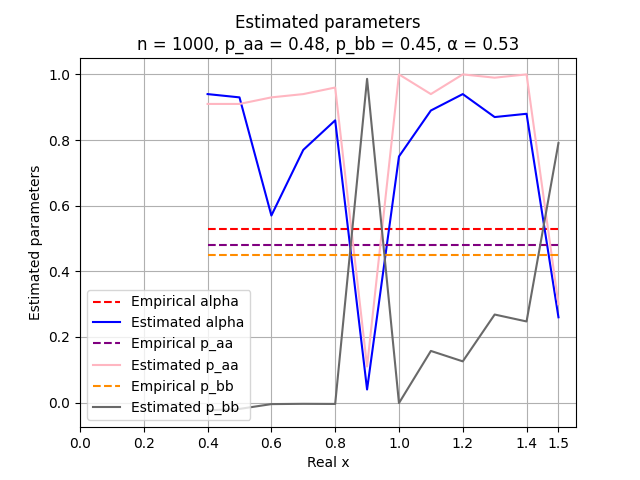
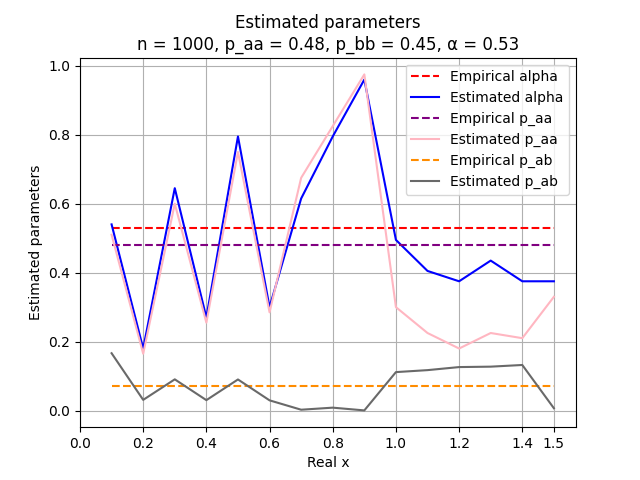
update algorithm 0 for finding parameters; estimate true evolutionary distance for real genomes

diff --git a/3d_fragile_breakage_model/src/real_breakpoint_graph.py b/3d_fragile_breakage_model/src/real_breakpoint_graph.py
@@ -10,6 +10,9 @@ from src.graphs.real_data_graph import (
     sp_blocks_from_df,
     uniq_predicate,
 )
+from src.true_evolutionary_distance import find_true_evolution_dist_and_find_parameters1, \
+    find_true_evolution_dist_and_find_parameters0
+from src.utils import CyclesInfo
 
 
 def read_compartments(file):
@@ -50,23 +53,38 @@ def read_compartments(file):
     return a_b_compartments
 
 
+def read_files_path():
+    print("Enter a path to a file that contains A and B compartments:")
+    compartments_file = input()
+
+    print("Enter a path to a file with orthology blocks:")
+    blocks_file = input()
+
+    return compartments_file, blocks_file
+
+
 def read_species(orthology_blocks):
     species = orthology_blocks.species.unique()
     # print("Choose two species from the list:")
-    print("Choose one species from the list to compare with homo_sapiens:")
+    # must match the one for which the blocking was introduced
+    print("Choose two species from the list to compare with homo_sapiens)")
     print(*species, sep=", ")
 
-    # species1, species2 = input().split()
-    species1 = input()
-    species2 = "homo_sapiens"
+    print(
+        "Format: species1, species2\n",
+        "The second species must coincide with the one for which the partitioning into A/B compartments was",
+        " introduced:",
+    )
+
+    species1, species2 = input().split()
 
     if species1 not in species:
         print("First species is not from the list")
         exit()
 
-    # if species2 not in species:
-    #     print("Second species is not from the list")
-    #     exit()
+    if species2 not in species:
+        print("Second species is not from the list")
+        exit()
     return species1, species2
 
 
@@ -152,20 +170,20 @@ def add_types_to_fragile_edges(edges, a_b_compartments):
         if a_compartments + b_compartments > 1e6:
             cnt_edge_contains_multi_compartments += 1
 
-    print("edge inside", cnt_edge_inside_compartment)
-    print("edge contains", cnt_edge_contains_multi_compartments)
-    print("A and B", a_and_b)
+    # print("edge inside", cnt_edge_inside_compartment)
+    # print("edge contains", cnt_edge_contains_multi_compartments)
+    # print("A and B", a_and_b)
+    #
+    # cnt_a = defaultdict(lambda: 0)
+    # cnt_b = defaultdict(lambda: 0)
+    # for edge in edges:
+    #     if edge["label"] == "A":
+    #         cnt_a[edge["chr"]] += 1
+    #     else:
+    #         cnt_b[edge["chr"]] += 1
 
-    cnt_a = defaultdict(lambda: 0)
-    cnt_b = defaultdict(lambda: 0)
-    for edge in edges:
-        if edge["label"] == "A":
-            cnt_a[edge["chr"]] += 1
-        else:
-            cnt_b[edge["chr"]] += 1
-
-    for chr_ in cnt_a.keys():
-        print(chr_, cnt_a[chr_], cnt_b[chr_])
+    # for chr_ in cnt_a.keys():
+    #     print(chr_, cnt_a[chr_], cnt_b[chr_])
 
 
 def len_of_blocks(orthology_blocks, species):
@@ -176,10 +194,7 @@ def len_of_blocks(orthology_blocks, species):
     # print("Length of orthology blocks for", species, ":", len_blocks, "\n")
 
 
-def get_compartments_and_orthology_blocks():
-    compartments_file = "3d_fragile_breakage_model/data/a_b_compartments.xlsx"
-    blocks_file = "3d_fragile_breakage_model/data/orthology_blocks.txt"
-
+def get_compartments_and_orthology_blocks(compartments_file, blocks_file):
     a_b_compartments = read_compartments(compartments_file)
     orthology_blocks = parse_to_df(blocks_file)
     return a_b_compartments, orthology_blocks
@@ -230,9 +245,8 @@ def get_graph_statistic(g):
         cycle = g.subgraph(component)
         if len(cycle.nodes) == len(cycle.edges):
             cycle_len = len(cycle.edges) // 2
-            statistic["cycles"][cycle_len] += 1
+            statistic["cycles"][str(cycle_len)] += 1
             edges_types = list(map(lambda edge: edge[2], cycle.edges(data="label")))
-            # if cycle_len < max_cycles_len_with_type:
             statistic["cycles_with_types"][to_cycle_type(edges_types)] += 1
 
             if cycle_len > 1:
@@ -288,13 +302,53 @@ def print_graph_statistic(graph_statistic):
     print()
 
 
+def find_true_evolution_dist(graph_statistic):
+    graph_cycles_info = CyclesInfo(
+        dict(graph_statistic["cycles_with_types"]),
+        dict(graph_statistic["cycles"]),
+        graph_statistic["A-edges in non-trivial cycles"],
+        graph_statistic["B-edges in non-trivial cycles"],
+        -1,
+        -1,
+    )
+    sum_to_in_error = 10
+    for i in range(2, sum_to_in_error):
+        if str(i) not in graph_cycles_info.cycles_m:
+            graph_cycles_info.cycles_m[str(i)] = 0
+
+    dist_info = find_true_evolution_dist_and_find_parameters0(graph_cycles_info)
+
+    print("Estimated true evolutionary distance:", dist_info["estimated_true_dist"])
+    print(
+        "Parameters at which the distance is reached:\n    p_aa:",
+        dist_info["best_p_aa"],
+        "p_ab:",
+        1 - dist_info["best_p_aa"] - dist_info["best_p_bb"],
+        "p_bb:",
+        dist_info["best_p_bb"],
+        "alpha:",
+        dist_info["best_alpha"],
+        "beta:",
+        1 - dist_info["best_alpha"],
+    )
+    print("Min error:", dist_info["min_error"])
+    print("Empirical min distance:", dist_info["empirical_min_dist"])
+
+
 def main():
-    a_b_compartments, orthology_blocks = get_compartments_and_orthology_blocks()
+    # compartments_file, blocks_file = read_files_path()
+    compartments_file = "3d_fragile_breakage_model/data/a_b_compartments.xlsx"
+    blocks_file = "3d_fragile_breakage_model/data/orthology_blocks.txt"
+
+    a_b_compartments, orthology_blocks = get_compartments_and_orthology_blocks(
+        compartments_file, blocks_file
+    )
     # species1, species2 = read_species(orthology_blocks)
-    species1, species2 = "mus_musculus", "homo_sapiens"
+    species1, species2 = "rattus_norvegicus", "homo_sapiens"
     g = build_breakpoint_graph(species1, species2, a_b_compartments, orthology_blocks)
     graph_statistic = get_graph_statistic(g)
     print_graph_statistic(graph_statistic)
+    find_true_evolution_dist(graph_statistic)
 
 
 if __name__ == "__main__":

diff --git a/3d_fragile_breakage_model/src/true_evolutionary_distance.py b/3d_fragile_breakage_model/src/true_evolutionary_distance.py
@@ -6,7 +6,7 @@ from compute_statistics import (
     compute_analytically_d_n,
     compute_analytically_b_n,
     estimate_alpha,
-    compute_p_ab,
+    estimate_p_ab,
     compute_empirical_d,
     compute_empirical_b,
 )
@@ -256,6 +256,7 @@ def find_true_evolution_dist_with_parameters_using_skopt(graph, n_calls):
         "estimated_true_dist": estimated_true_dist,
         "best_x": best_x,
         "best_p_aa": best_p_aa,
+        "best_p_ab": 1 - best_p_aa - best_p_bb,
         "best_p_bb": best_p_bb,
         "best_alpha": best_alpha,
         "min_error": error1,
@@ -266,7 +267,7 @@ def find_true_evolution_dist_and_find_parameters0(graph):
     empirical_d = compute_empirical_d(graph)
     empirical_b = compute_empirical_b(graph)
 
-    step_x = 5e-4
+    step_x = 1e-3
     l_x = step_x
     r_x = 1.5 + step_x
 
@@ -274,24 +275,26 @@ def find_true_evolution_dist_and_find_parameters0(graph):
 
     best_analytical_x = 0.0
     best_p_aa = 0.0
+    best_p_ab = 0.0
     best_p_bb = 0.0
     best_alpha = 0.0
-    p_step = 0.01
+    p_step = 0.015
 
     for x in np.arange(l_x, r_x, step_x):
         for p_aa in np.arange(p_step, 1, p_step):
             for alpha in np.arange(p_step, 1, p_step):
-                p_ab = compute_p_ab(
+                p_ab = estimate_p_ab(
                     x, p_aa, alpha, graph.cycle_types["AA"], graph.cycle_types["AAA"]
                 )
                 p_bb = max(1 - p_aa - p_ab, 0.0)
-                if p_aa < p_ab or p_bb < p_ab:
+                if p_ab < 0 or p_aa < p_ab or p_bb < p_ab:
                     continue
 
                 error = compute_error(x, p_aa, p_bb, alpha, graph, empirical_b)
                 if error < min_error:
                     best_analytical_x = x
                     best_p_aa = p_aa
+                    best_p_ab = p_ab
                     best_p_bb = p_bb
                     best_alpha = alpha
                     min_error = error
@@ -307,8 +310,10 @@ def find_true_evolution_dist_and_find_parameters0(graph):
         "estimated_true_dist": estimated_true_dist,
         "best_x": best_analytical_x,
         "best_p_aa": best_p_aa,
+        "best_p_ab": best_p_ab,
         "best_p_bb": best_p_bb,
         "best_alpha": best_alpha,
+        "min_error": min_error,
     }
 
 
@@ -324,6 +329,7 @@ def find_true_evolution_dist_and_find_parameters1(graph):
 
     best_x = 0.0
     best_p_aa = 0.0
+    best_p_ab = 0.0
     best_p_bb = 0.0
     best_alpha = 0.0
     p_step = 0.01
@@ -346,6 +352,7 @@ def find_true_evolution_dist_and_find_parameters1(graph):
                     if error < min_error:
                         best_x = x
                         best_p_aa = p_aa
+                        best_p_ab = p_ab
                         best_p_bb = p_bb
                         best_alpha = alpha
                         min_error = error
@@ -359,6 +366,7 @@ def find_true_evolution_dist_and_find_parameters1(graph):
         "estimated_true_dist": estimated_true_dist,
         "best_x": best_x,
         "best_p_aa": best_p_aa,
+        "best_p_ab": best_p_ab,
         "best_p_bb": best_p_bb,
         "best_alpha": best_alpha,
         "min_error": min_error,
@@ -413,19 +421,23 @@ def compute_true_evolutionary_distance(parameter_index, method):
             print(
                 "k:",
                 k,
-                "best x:",
+                "best_x:",
                 cur_dist_info["best_x"],
                 "best_p_aa:",
                 cur_dist_info["best_p_aa"],
+                "best_p_ab:",
+                cur_dist_info["best_p_ab"],
                 "best_p_bb:",
                 cur_dist_info["best_p_bb"],
                 "best_alpha:",
                 cur_dist_info["best_alpha"],
-                "min error:",
+                "min_error:",
                 cur_dist_info["min_error"],
+            )
+            print(
                 "time:",
-                (time.time() - start_time) / 60,
-                " m.",
+                (time.time() - start_time) / 60 / 60,
+                " h.",
             )
 
     log_dictionaries(
@@ -530,6 +542,7 @@ def draw_true_dist_for_parameters(f_name, parameter_index, draw_parameters):
         cur_parameters["p_bb"],
         cur_parameters["alpha"],
     )
+    p_ab = 1 - p_aa - p_bb
     plot_title = build_parameters_for_plot_title(p_aa, p_bb, alpha)
     print(plot_title)
 
@@ -583,16 +596,27 @@ def draw_true_dist_for_parameters(f_name, parameter_index, draw_parameters):
                 "color": "lightpink",
             },
             {
-                "plot": list(map(lambda info: float(info["real_p_bb"]), dist_info)),
-                "label": "Empirical p_bb",
+                "plot": [p_ab] * len(xs),
+                "label": "Empirical p_ab",
                 "color": "darkorange",
                 "linestyle": "dashed",
             },
             {
-                "plot": list(map(lambda info: float(info["best_p_bb"]), dist_info)),
-                "label": "Estimated p_bb",
+                "plot": list(map(lambda info: float(info["best_p_ab"]), dist_info)),
+                "label": "Estimated p_ab",
                 "color": "dimgray",
             },
+            # {
+            #     "plot": list(map(lambda info: float(info["real_p_bb"]), dist_info)),
+            #     "label": "Empirical p_bb",
+            #     "color": "darkorange",
+            #     "linestyle": "dashed",
+            # },
+            # {
+            #     "plot": list(map(lambda info: float(info["best_p_bb"]), dist_info)),
+            #     "label": "Estimated p_bb",
+            #     "color": "dimgray",
+            # },
         ]
 
         draw_plots(

diff --git a/3d_fragile_breakage_model/src/compute_statistics.py b/3d_fragile_breakage_model/src/compute_statistics.py
@@ -167,9 +167,9 @@ def draw_analytical_c_m_b(max_m, mid_m, parameters_index):
     )
 
 
-def compute_p_ab(x, p_aa, alpha, aa_cycles, aaa_cycles):
-    y1 = math.log(aaa_cycles * alpha / (aa_cycles * 2 * x * p_aa)) / x
-    return -2 * p_aa - y1 * alpha
+def estimate_p_ab(x, p_aa, alpha, aa_cycles, aaa_cycles):
+    log = math.log(aaa_cycles * alpha / (aa_cycles * 2 * x * p_aa))
+    return -2 * p_aa - log * alpha / x
 
 
 def estimate_alpha(x, p_aa, p_bb, aa_cycles, ab_cycles, bb_cycles):
